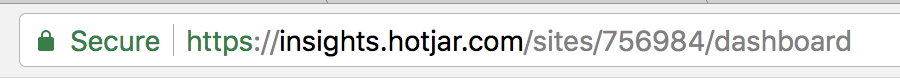
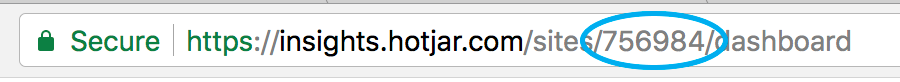
Line Breaks and new images
Added line breaks so each images appears on it's own line. Updated the images so that the SiteID is circled and easily found.

Changed region(s): [[0.6222, 0.122, 0.8089, 0.8537], [0.0311, 0.3659, 0.28, 0.6341]]

diff --git a/sws_hotjar.php b/sws_hotjar.php
@@ -97,12 +97,12 @@ function sws_hotjar_options_page(  ) {
 		?>
     <h3>Locations of the SiteID within the Hotjar website</h3>
     <p>There are a number of locations where you can find your Hotjar SiteID. We've included screenshots below for a number of them</p>
-    <img src="<?php echo plugins_url( 'images/screenshot-1.png', __FILE__ ); ?>" alt="Hotjar Screenshot" width="500px"/>
-    <img src="<?php echo plugins_url( 'images/screenshot-2.png', __FILE__ ); ?>" alt="Hotjar Screenshot" width="500px"/>
-    <img src="<?php echo plugins_url( 'images/screenshot-3.png', __FILE__ ); ?>" alt="Hotjar Screenshot" width="500px"/>
+    <img src="<?php echo plugins_url( 'images/screenshot-1.png', __FILE__ ); ?>" alt="Hotjar Screenshot" width="500px"/><br>
+    <img src="<?php echo plugins_url( 'images/screenshot-2.png', __FILE__ ); ?>" alt="Hotjar Screenshot" width="500px"/><br>
+    <img src="<?php echo plugins_url( 'images/screenshot-3.png', __FILE__ ); ?>" alt="Hotjar Screenshot" width="500px"/><br>
     <hr>
     <p>You can also click here to locate the tracking code screen if you haven't set it up yet</p>
-    <img src="<?php echo plugins_url( 'images/screenshot-4.png', __FILE__ ); ?>" alt="Hotjar Screenshot" width="500px"/>
+    <img src="<?php echo plugins_url( 'images/screenshot-4.png', __FILE__ ); ?>" alt="Hotjar Screenshot" width="500px"/></br>
 	</form>
 	<?php
 
